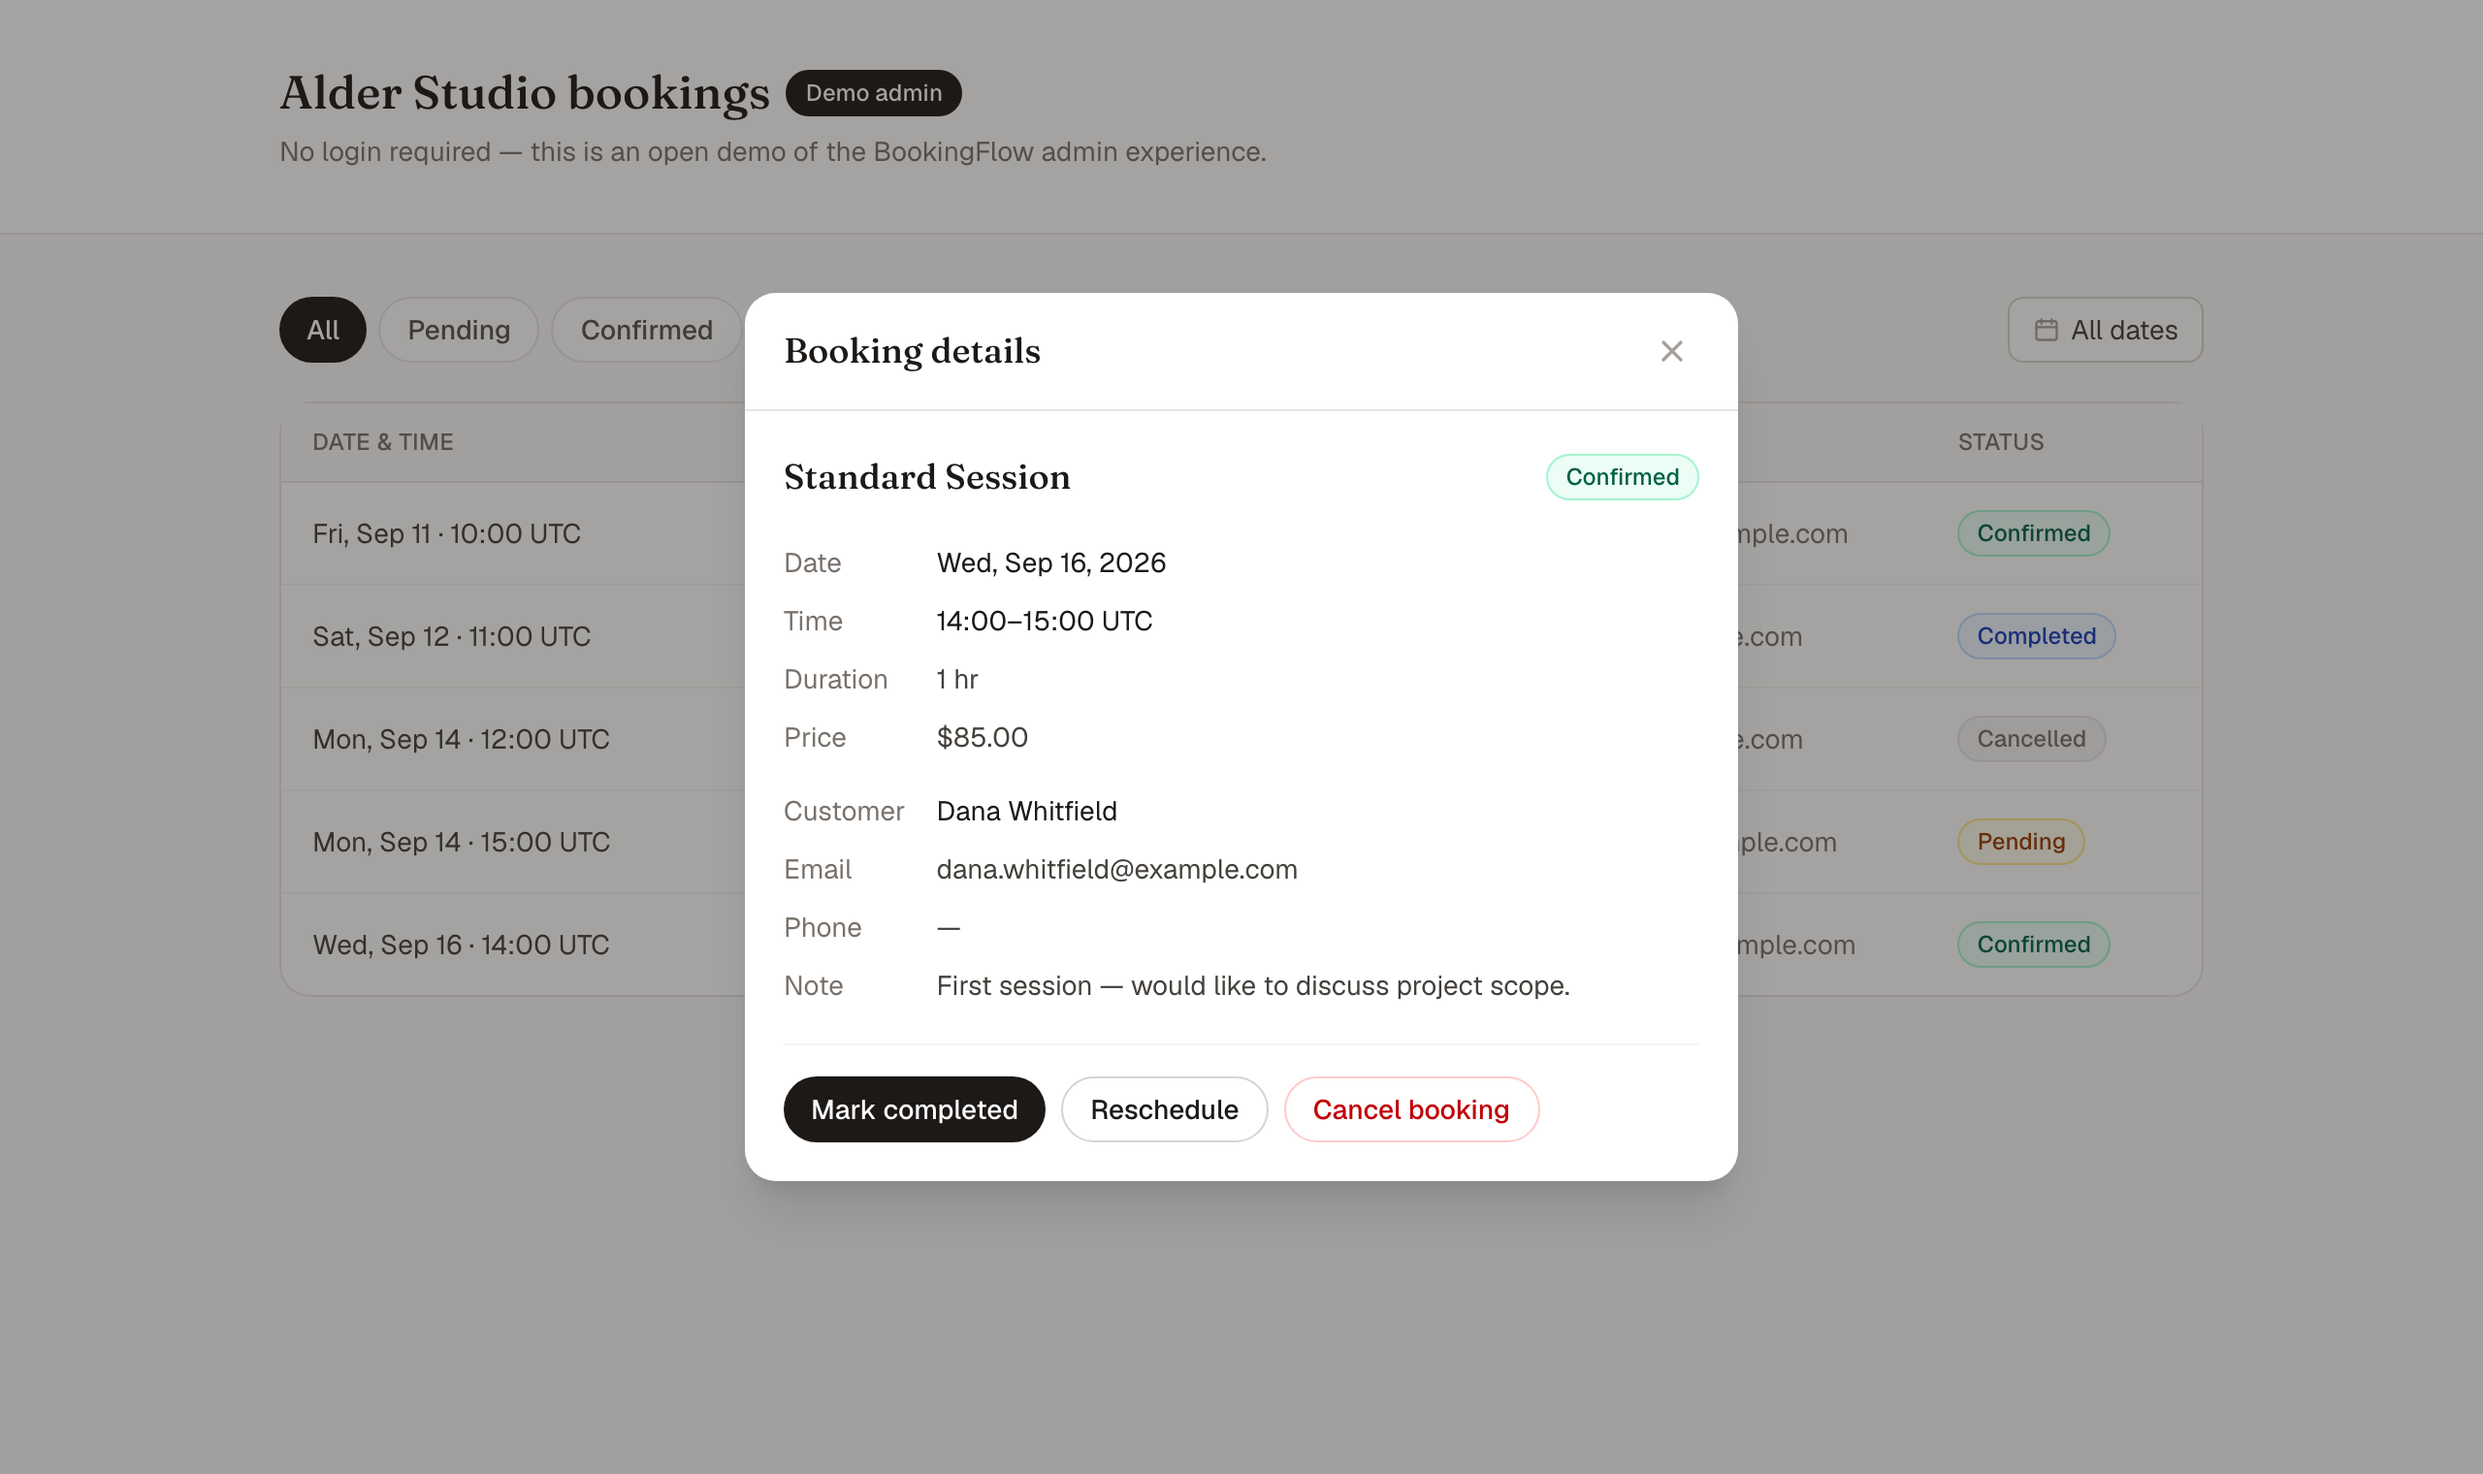
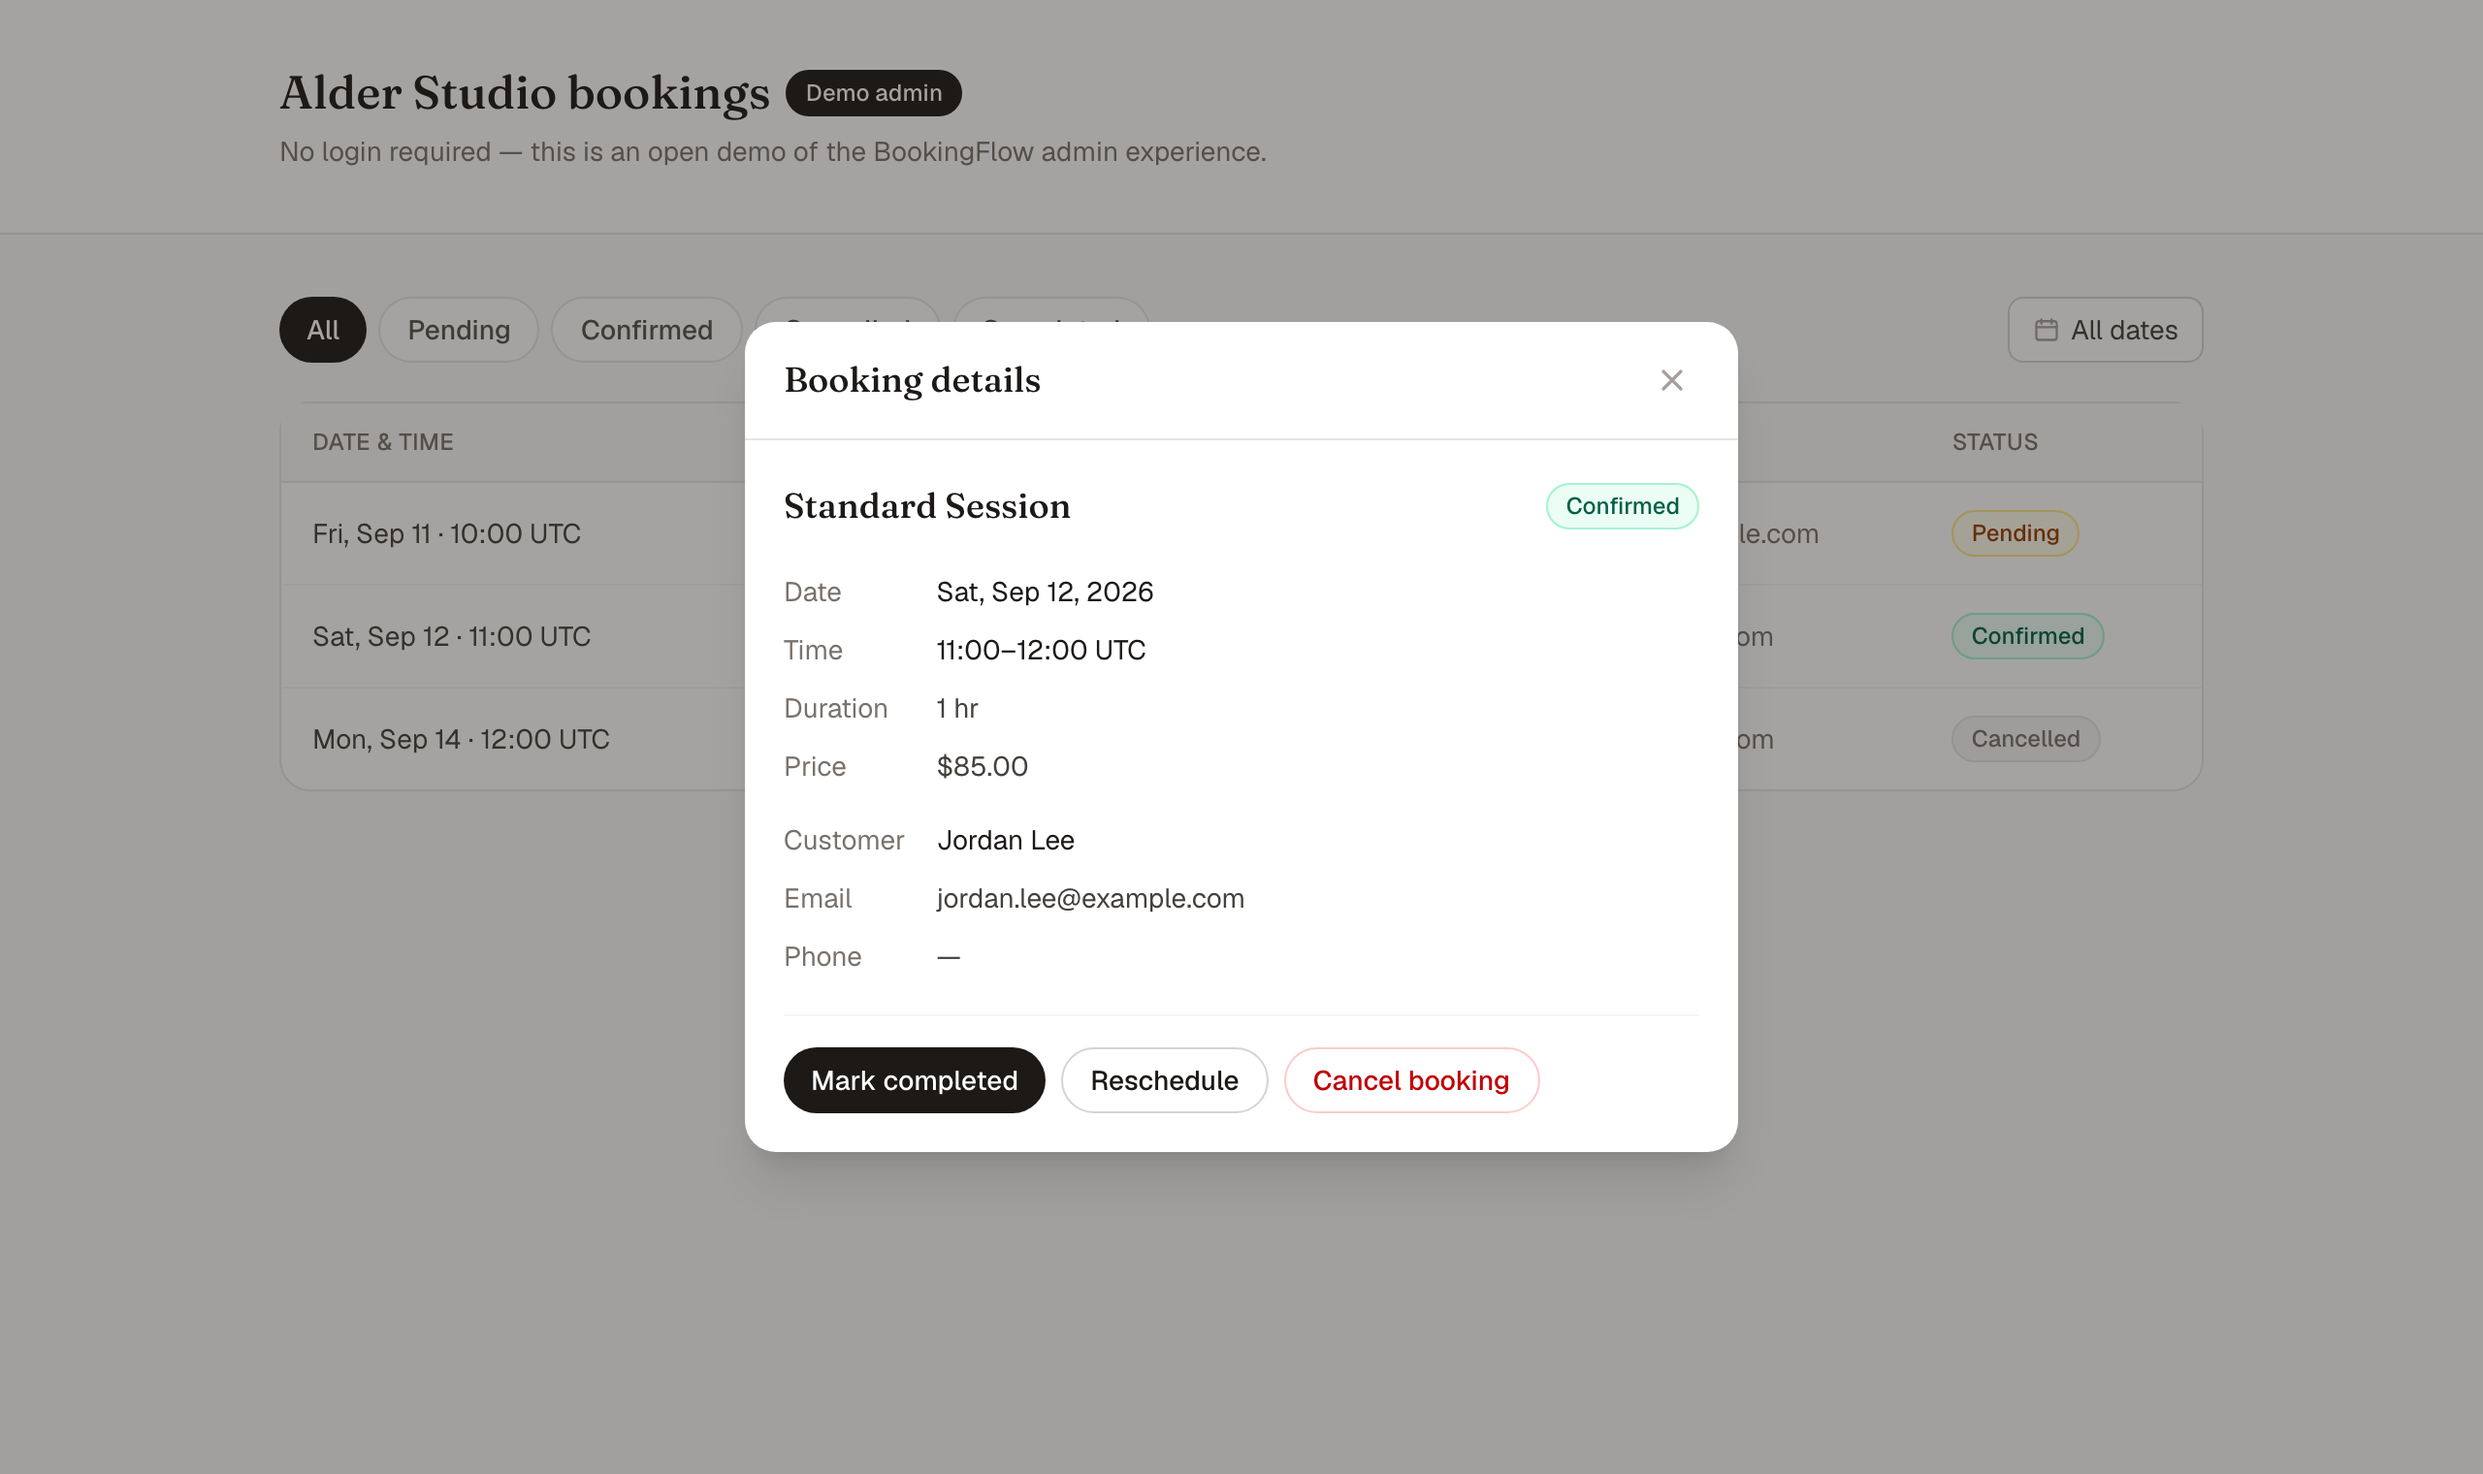
docs: fix BookingFlow portfolio review blockers
1. Concurrency wording (README, CASE_STUDY, DEMO): the overlap guarantee is
   application-level interval validation on every request; the DB partial-unique
   index on start_at is only an identical-start race backstop, not a general
   exclusion constraint for arbitrary overlapping intervals.
2. DEMO.md now matches the clean seed (Avery Morgan pending, Jordan Lee
   confirmed, Taylor Kim cancelled) and performs its own transitions, so it runs
   from any fresh seed.
3. admin-desktop.png and admin-booking-detail.png regenerated from a clean
   isolated stack — no "Main Smoke Tester" / QA artifacts; seed data only.

No application, config, or API-contract files changed.

diff --git a/docs/CASE_STUDY.md b/docs/CASE_STUDY.md
@@ -25,7 +25,8 @@ A small system that owns the whole booking loop and is correct by construction:
    genuinely open.
 2. The business manages every booking — confirm, reschedule, complete, cancel — from one
    screen.
-3. The server, not the UI, guarantees no two bookings overlap.
+3. The server, not the UI, validates interval overlap on every booking request, so the
+   normal booking flow cannot place an appointment that intersects an existing one.
 
 Deliberately **not** in the MVP: authentication, staff accounts, payments, notifications,
 calendar sync, multi-resource scheduling, a service-editor UI. Those are real-build
@@ -61,18 +62,24 @@ Availability is computed server-side from a few rules:
 - A candidate time is blocked if its interval overlaps **any booking that is not
   cancelled**. Cancelling a booking returns its time to the pool.
 
-Overlap protection is enforced in two layers:
+Overlap protection has two parts:
 
-1. **Application check.** Before a create or reschedule commits, the API queries for any
-   non-cancelled booking whose interval overlaps the requested one and returns
-   `409 Selected time is no longer available.` if it finds one.
-2. **Database constraint.** A partial unique index covers the start time of every
-   non-cancelled booking, and the create path translates a unique-violation into the same
-   `409`. This closes the race where two requests pass the application check at the same
-   instant — only one can commit.
+1. **Application-level validation.** Before a create or reschedule commits, the API queries
+   for any non-cancelled booking whose interval intersects the requested one and returns
+   `409 Selected time is no longer available.` if it finds one. This covers every interval
+   overlap in the normal booking flow.
+2. **Same-start database backstop.** A partial unique index covers the `start_at` of every
+   non-cancelled booking, and the create path turns the resulting unique-violation into the
+   same `409`. This closes the narrow race where two requests for the **identical start
+   time** pass the application check at the same instant — only one row can be inserted. It
+   is a plain uniqueness constraint on `start_at`, **not** a PostgreSQL exclusion
+   constraint, so it does not independently prevent two overlapping bookings that start at
+   *different* times.
 
-The result: a customer can never grab a slot that's already taken, and concurrent requests
-for the same slot cannot both succeed.
+In practice the application check keeps appointments from overlapping during normal use,
+and the database index removes the identical-start race. A general guard against arbitrary
+concurrent interval overlaps (for example a GiST exclusion constraint over a time range)
+is a sensible next step for a production build.
 
 ## Technical approach
 
@@ -82,7 +89,7 @@ for the same slot cannot both succeed.
 | Persistence | PostgreSQL 16 via SQLAlchemy; schema managed with Alembic |
 | Time | Everything stored and returned in UTC; slots aligned to a 30-minute grid |
 | Availability | Computed on demand from business hours + existing non-cancelled bookings |
-| Integrity | Application-level overlap check **plus** a DB partial-unique index |
+| Integrity | Application-level interval-overlap check on every request, plus a partial-unique DB index on `start_at` (identical-start backstop, not an exclusion constraint) |
 | Frontend | Next.js (App Router) + TypeScript + Tailwind CSS |
 | Local run | Docker Compose: `db`, `backend`, `frontend`; backend seeds demo data on start |
 
@@ -114,8 +121,9 @@ it's usable immediately.
 
 - **A complete vertical slice**, not a front-end mockup: real API, real database, real
   persistence, real availability math.
-- **Correctness under pressure** — duration-aware availability and a two-layer guarantee
-  that slots can't be double-booked, including concurrent requests.
+- **Correctness under pressure** — duration-aware availability, interval-overlap validation
+  on every booking request, and a database uniqueness backstop that removes the
+  identical-start race.
 - **A clean domain model** with an explicit status lifecycle and enforced transitions.
 - **FastAPI + Next.js integration** against a small, deliberate, frozen contract.
 - **Considered UX** across desktop and mobile for both the customer and the operator.

diff --git a/docs/DEMO.md b/docs/DEMO.md
@@ -20,6 +20,18 @@ Wait for the backend to report healthy, then open two browser tabs:
 
 All times shown in the app are UTC.
 
+A fresh seed contains three services (**Intro Consultation** 30 min, **Standard Session**
+60 min, **Extended Session** 90 min) and three demo bookings, each a few business days out:
+
+| Customer | Service | Seeded status |
+| --- | --- | --- |
+| Avery Morgan | Intro Consultation | `pending` |
+| Jordan Lee | Standard Session | `confirmed` |
+| Taylor Kim | Extended Session | `cancelled` |
+
+This walkthrough only relies on those seeded statuses and the transitions it performs
+itself, so it runs the same way on any clean seed.
+
 ---
 
 ## 1. Book an appointment as a customer  (~60s)
@@ -42,7 +54,8 @@ All times shown in the app are UTC.
 ## 2. Triage it as the business  (~40s)
 
 1. Switch to the **admin** tab (`/admin`) and refresh. The new **Dana Whitfield** booking
-   appears with a **Pending** badge, alongside the seeded demo bookings.
+   appears with a **Pending** badge, alongside the three seeded bookings (Avery Morgan —
+   pending, Jordan Lee — confirmed, Taylor Kim — cancelled).
 2. Use the **Pending** filter to show only requests that need action, then switch back to
    **All**.
 3. Click the **Dana Whitfield** row to open **Booking details** — service, time, duration,
@@ -60,18 +73,20 @@ All times shown in the app are UTC.
 
 ## 4. Complete it  (~15s)
 
-1. Open the booking again and click **Mark completed**.
+1. Open the **Dana Whitfield** booking again and click **Mark completed**.
 2. The status becomes **Completed** and no further actions are offered — it's terminal.
-   (The seeded **Jordan Lee** booking is already in this state for comparison.)
+   `cancelled` (see the seeded **Taylor Kim** booking) is the other terminal state.
 
 ## 5. Show the double-booking guard  (~40s)
 
-1. In the **admin** tab, note the time of a booking that is **confirmed** (not cancelled) —
-   for example the seeded **Avery Morgan** booking, or the one you just confirmed before
-   completing it. If you completed yours, confirm a fresh customer booking first so there's
-   an active one to collide with.
+Any booking that is **not cancelled** holds its time — the seeded **Jordan Lee**
+(`confirmed`) booking is a reliable target, and so is the **Dana Whitfield** booking you
+just worked through (it stays `completed`, which still blocks its slot).
+
+1. In the **admin** tab, open **Jordan Lee** and note its service (**Standard Session**),
+   date, and start time.
 2. In the **customer** tab, start a new booking for the **same service, same date, and the
-   same start time** as that active booking.
+   same start time**.
 3. That start time is **not offered** on the time step — availability already excludes it.
 4. (Optional, to show the server is the source of truth) send the create request directly:
 
@@ -85,8 +100,10 @@ All times shown in the app are UTC.
    available."}` — even though the request bypassed the UI. Service IDs are in
    `GET http://localhost:8000/api/services`.
 
-> Point out: overlap protection lives in the backend, not the UI. Two people hitting the
-> same slot at the same moment cannot both succeed — the second gets a `409`.
+> Point out: overlap protection lives in the backend, not the UI. A create request for a
+> taken time returns `409` even when it bypasses the UI (application-level interval
+> validation), and the database's unique index on active `start_at` values means two
+> requests racing for that *same start time* cannot both be inserted.
 
 ---
 

diff --git a/README.md b/README.md
@@ -52,8 +52,9 @@ BookingFlow is a small, complete booking system that handles the whole loop:
 
 - A guided public booking flow that only ever offers **real, open** times.
 - An open admin dashboard to triage and manage every booking.
-- Server-side rules that make **overlapping bookings impossible**, including under
-  concurrent requests.
+- Server-side overlap validation that rejects an intersecting appointment on every booking
+  request, plus a database uniqueness constraint on the start time that removes the
+  identical-start race.
 
 ## Customer flow
 
@@ -91,9 +92,12 @@ The admin dashboard (`/admin`) lists every booking and supports:
   Cancelling a booking frees its time again.
 - **Status lifecycle:** `pending → confirmed → completed`, with `cancelled` reachable from
   pending or confirmed. `cancelled` and `completed` are final.
-- **Concurrency-safe:** the API rejects a conflicting booking (`409`) and the database has
-  a partial unique constraint on active bookings as a second line of defence, so two
-  simultaneous requests for the same slot cannot both win.
+- **Overlap handling:** the API validates interval overlap on every create and reschedule
+  and returns `409` for an intersecting appointment. A database unique index on the
+  `start_at` of non-cancelled bookings adds a backstop for two requests racing on the
+  **same start time** — it is a plain uniqueness constraint, not a PostgreSQL exclusion
+  constraint, so it does not by itself prevent overlaps between bookings that start at
+  different times.
 
 ## Architecture / stack
 
